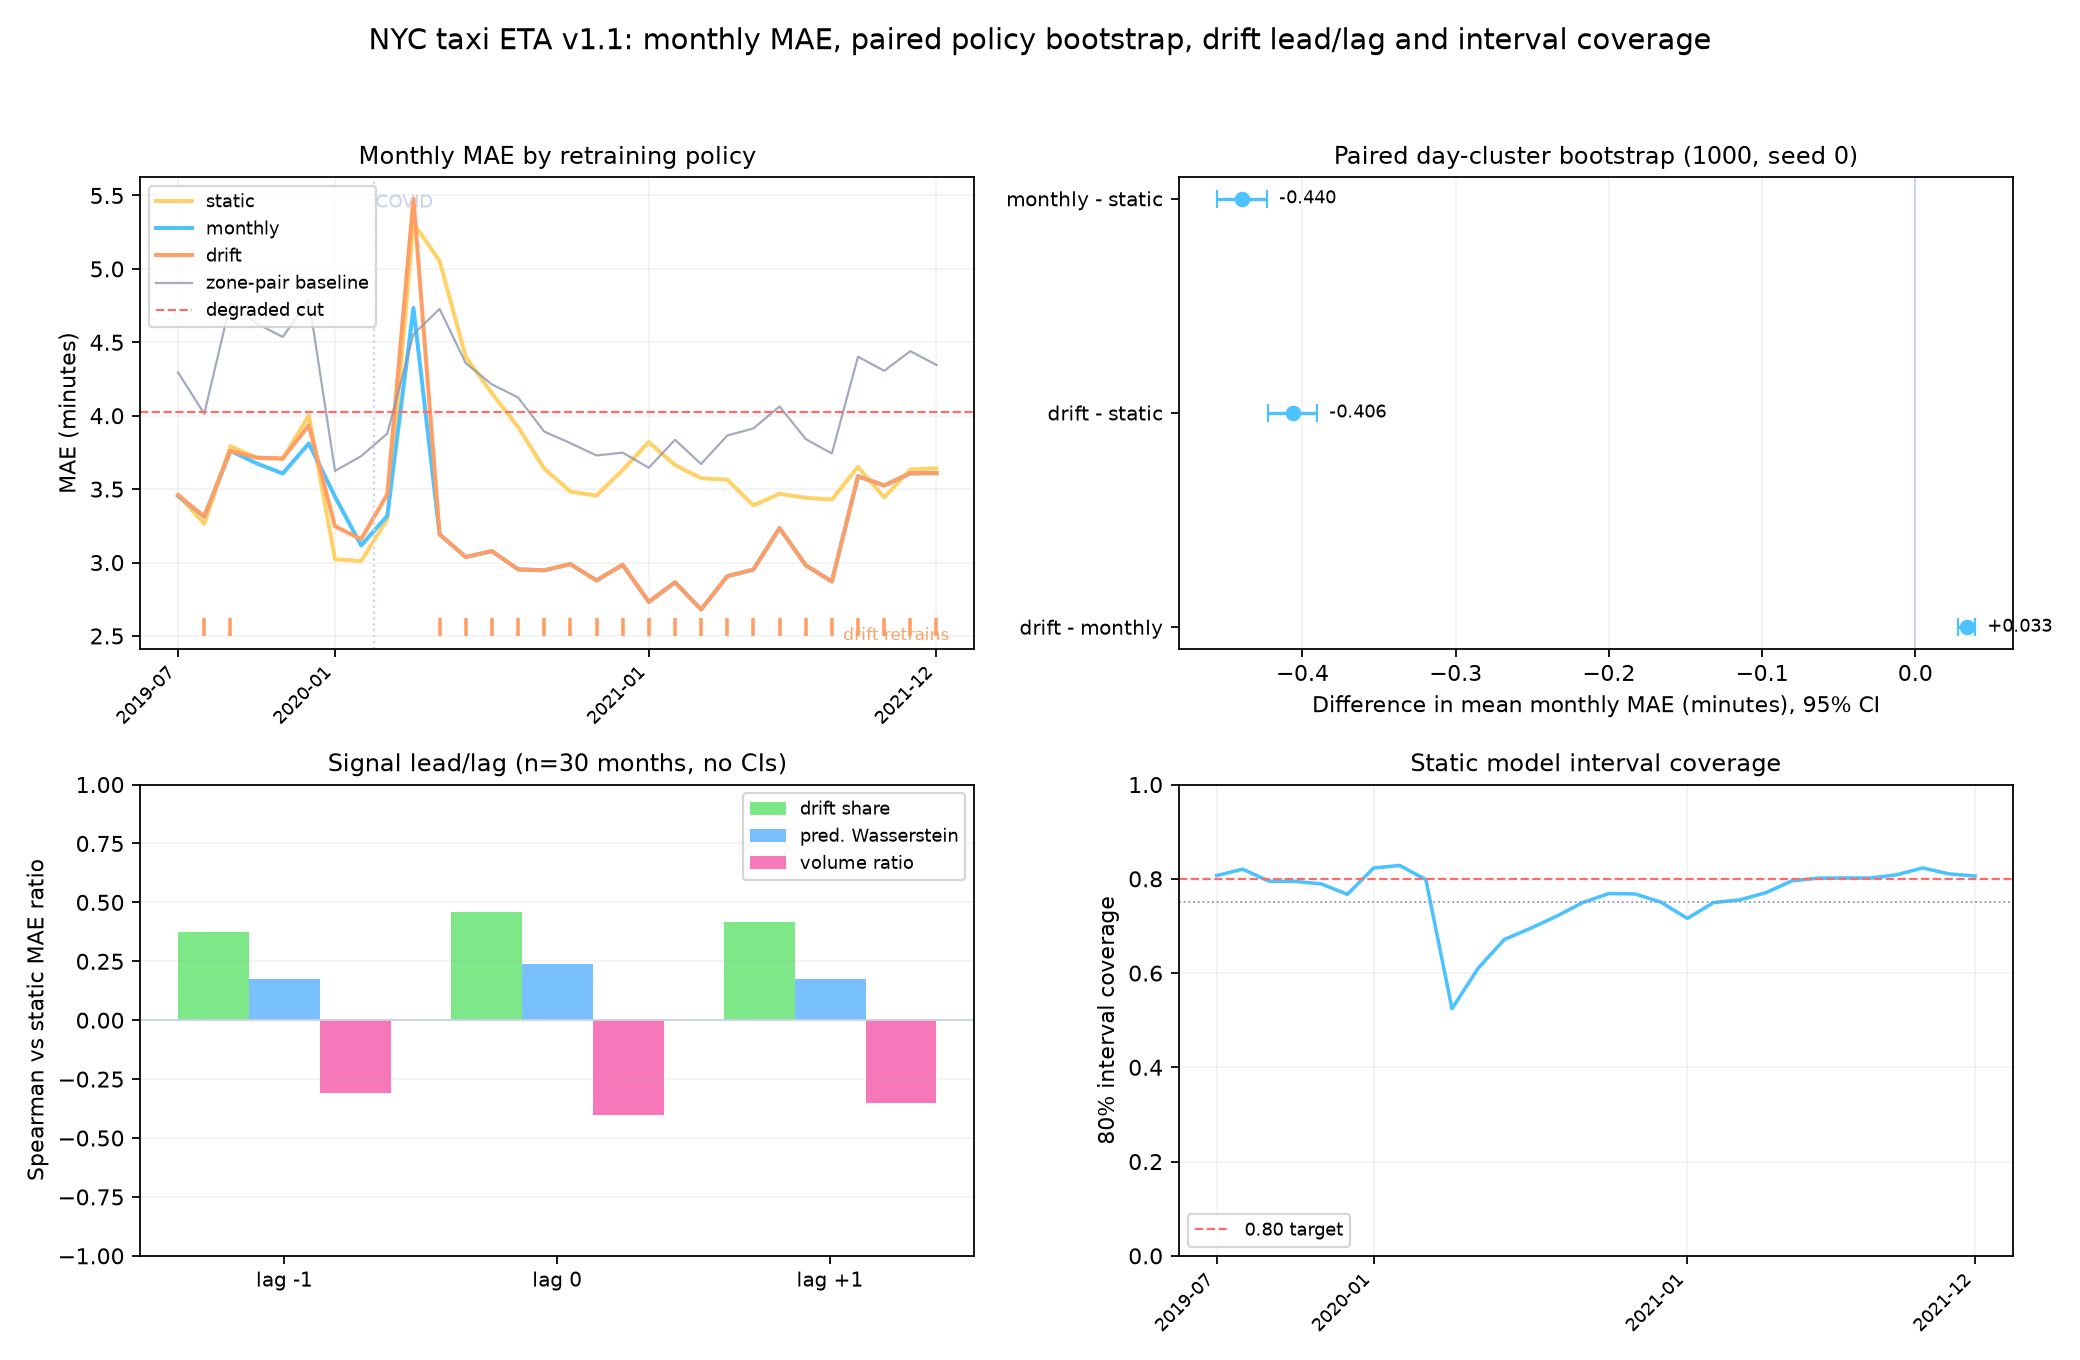
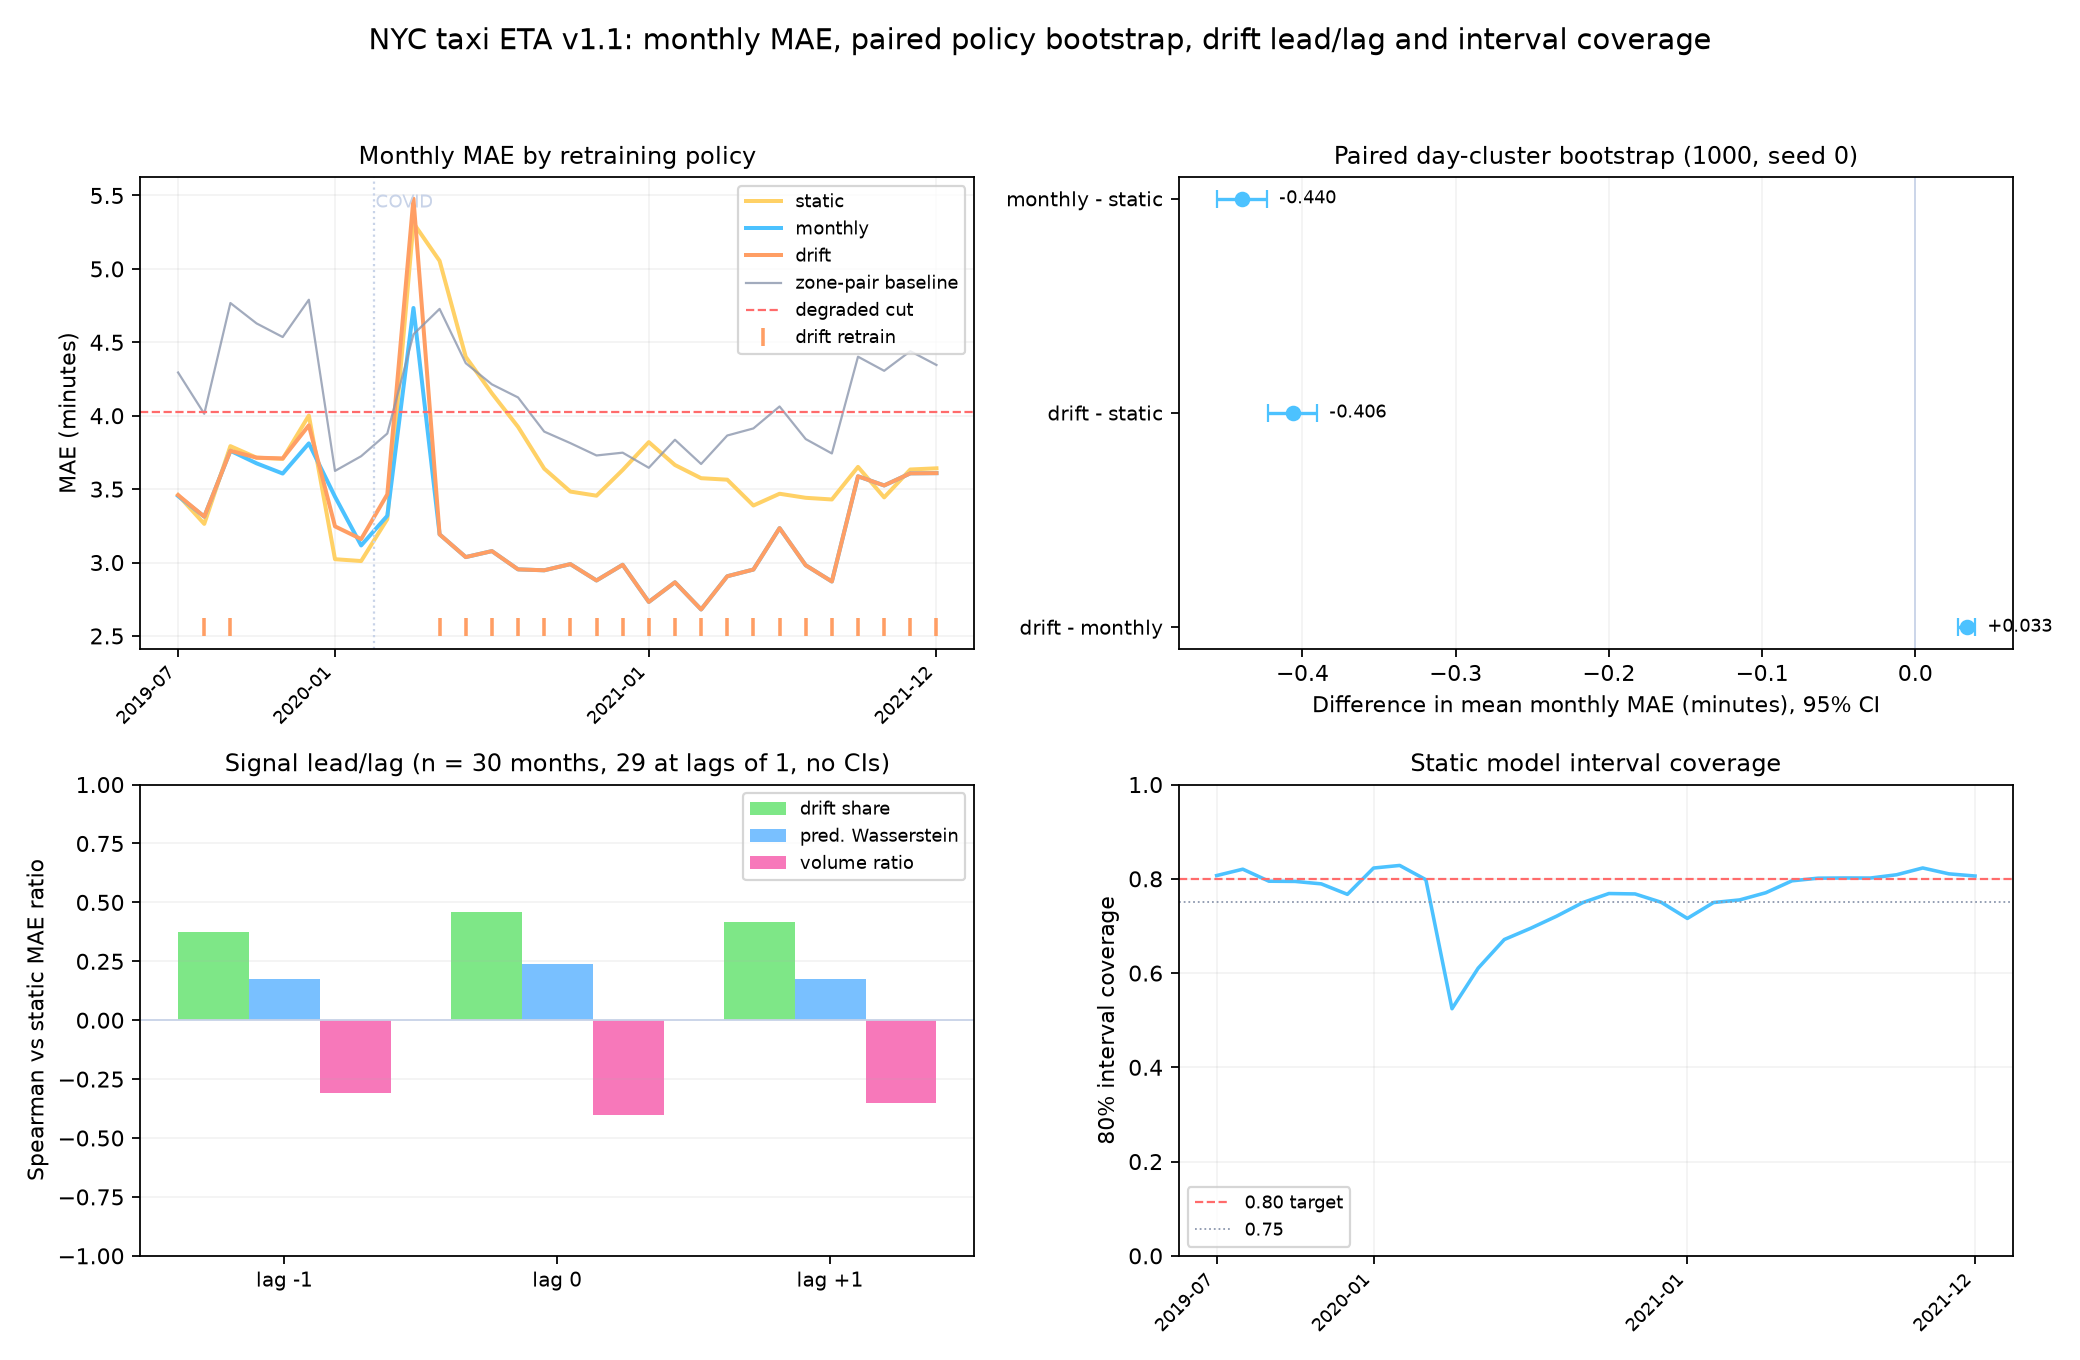
fix(figure): move panel legends clear of labels

diff --git a/scripts/render_figure.py b/scripts/render_figure.py
@@ -54,15 +54,12 @@ ax.text(covid_i - 0.45, ax.get_ylim()[1] if False else max(DATA["static_mae"]) *
         "COVID", fontsize=8, color="#c8d3e8")
 rt = [MONTHS.index(m) for m in DATA["retrain_months"]]
 ax.plot(rt, [min(DATA["monthly_mae"]) - 0.12] * len(rt), "|",
-        color=COL_DRIFT, ms=8, mew=1.6)
-ax.text(len(MONTHS) - 0.5, min(DATA["monthly_mae"]) - 0.12,
-        "drift retrains", fontsize=7.5, color=COL_DRIFT, ha="right",
-        va="top")
+        color=COL_DRIFT, ms=8, mew=1.6, label="drift retrain")
 ax.set_xticks(xticks := XTICKS)
 ax.set_xticklabels(XLABELS, rotation=45, ha="right", fontsize=8)
 ax.set_ylabel("MAE (minutes)")
 ax.set_title("Monthly MAE by retraining policy", fontsize=11)
-ax.legend(fontsize=8, loc="upper left")
+ax.legend(fontsize=8, loc="upper right")
 ax.grid(alpha=0.15)
 
 # (b) forest plot --------------------------------------------------------
@@ -100,7 +97,8 @@ ax.set_xticks(np.arange(3))
 ax.set_xticklabels(["lag -1", "lag 0", "lag +1"], fontsize=9)
 ax.set_ylim(-1, 1)
 ax.set_ylabel("Spearman vs static MAE ratio")
-ax.set_title("Signal lead/lag (n=30 months, no CIs)", fontsize=11)
+ax.set_title("Signal lead/lag (n = 30 months, 29 at lags of 1, no CIs)",
+             fontsize=11)
 ax.legend(fontsize=8)
 ax.grid(alpha=0.15, axis="y")
 
@@ -108,7 +106,7 @@ ax.grid(alpha=0.15, axis="y")
 ax = axes[1, 1]
 ax.plot(X, DATA["coverage"], color=COL_MONTHLY, lw=1.6)
 ax.axhline(0.80, color=COL_CUT, ls="--", lw=1.0, label="0.80 target")
-ax.axhline(0.75, color=COL_BASE, ls=":", lw=0.8)
+ax.axhline(0.75, color=COL_BASE, ls=":", lw=0.8, label="0.75")
 ax.set_xticks(XTICKS)
 ax.set_xticklabels(XLABELS, rotation=45, ha="right", fontsize=8)
 ax.set_ylim(0, 1)
